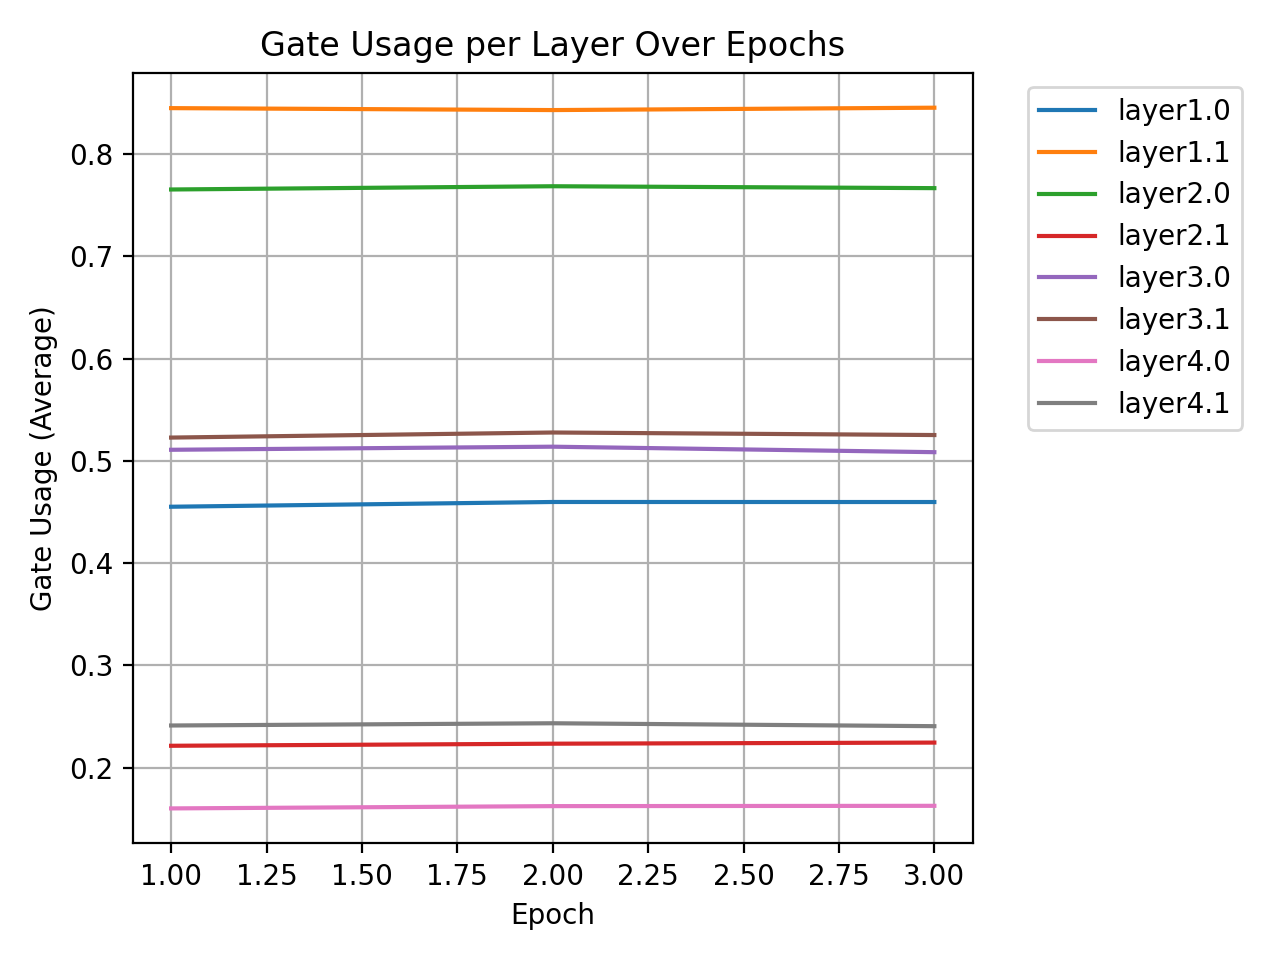
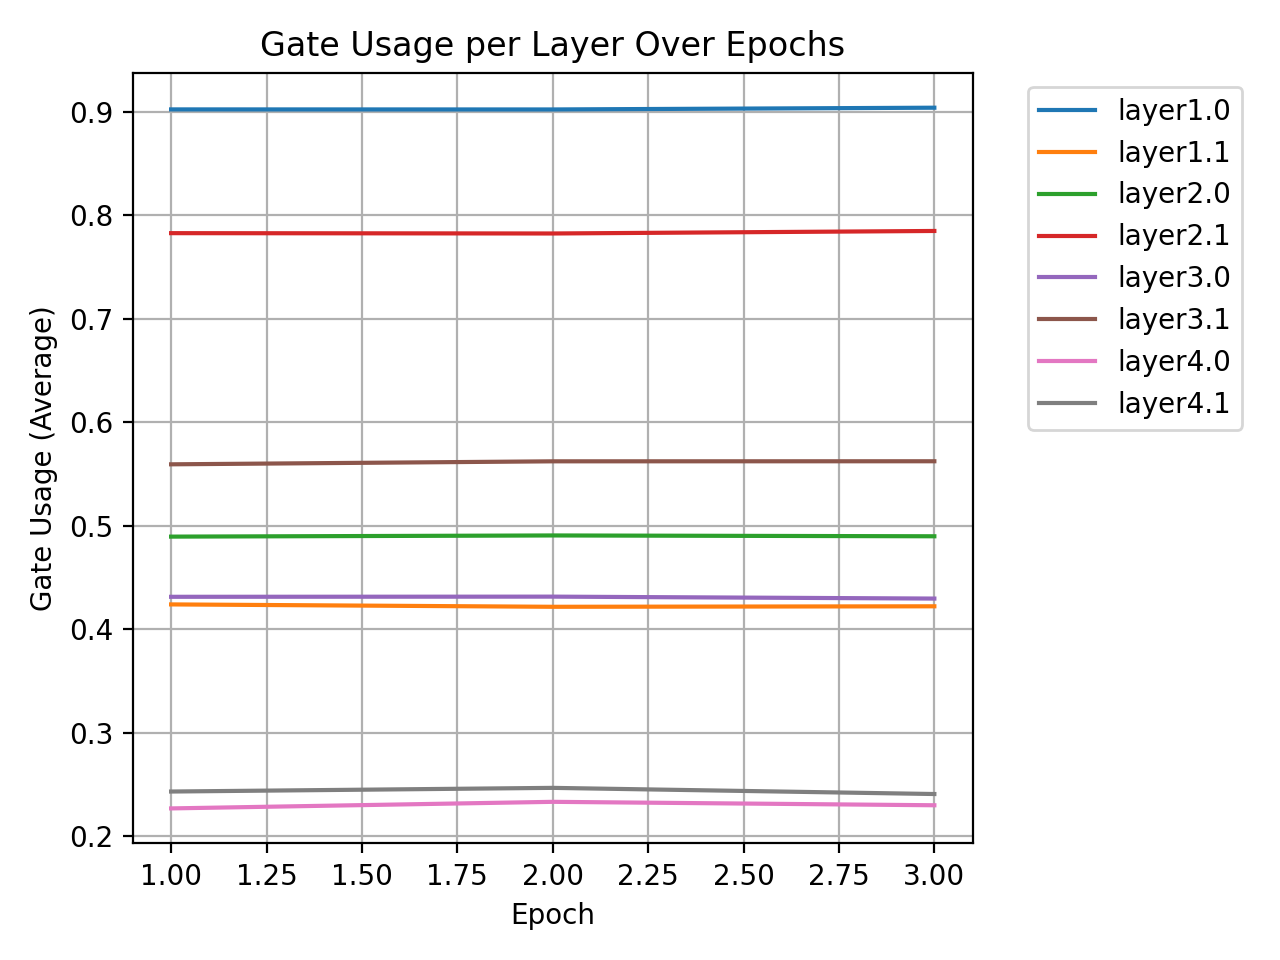
Removed baseline train script (redundant)

diff --git a/train.py b/train.py
@@ -31,7 +31,7 @@ def set_tau(model, new_tau):
             if hasattr(block, 'tau'):
                 block.tau = new_tau
 
-model = DynamicResNet18(use_controller=True, tau=initial_tau).to(device)
+model = DynamicResNet18(use_controller=False, tau=initial_tau).to(device)
 criterion = nn.CrossEntropyLoss()
 optimizer = optim.Adam(model.parameters(), lr=0.001)
 
